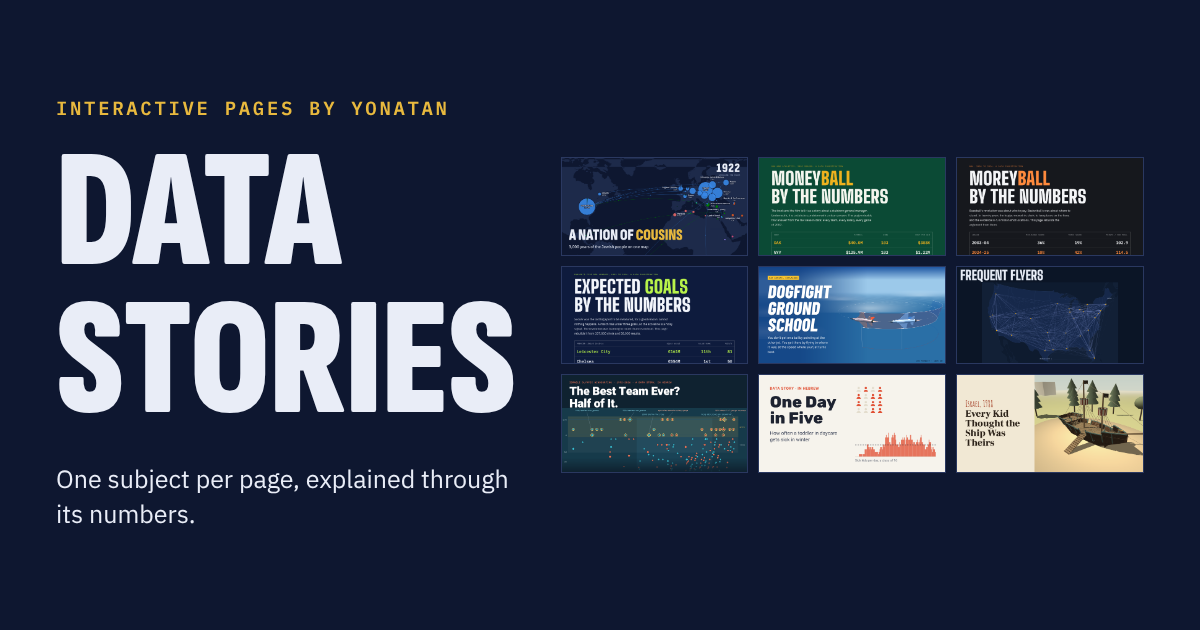
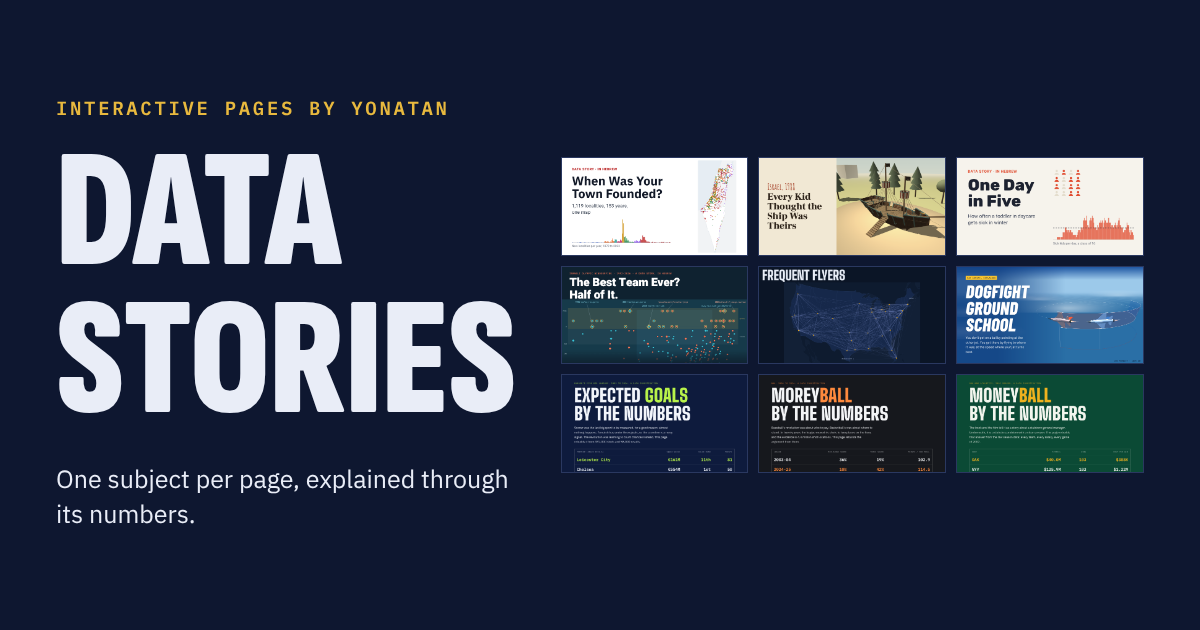
Home page newest first; settlements: play control above the map
Home rows are reversed so the newest story is on top, and the home share
image is re-rendered. On the settlements page the play button, timeline and
speed buttons sit right under the headline, and the top search box is gone.

Claude-Session: https://claude.ai/code/session_012WeNKA2ovQycEMAGqmeTJj

Changed region(s): [[0.4625, 0.2413, 0.9558, 0.754]]

diff --git a/index.html b/index.html
@@ -58,45 +58,45 @@ p{margin:0;max-width:60ch}
   </header>
   <p>Each page takes one subject and explains it through its numbers, with charts and maps you can play with.</p>
   <div class="row">
-    <a class="card" href="cousins/">
-      <img src="cousins/cousins-preview.png" alt="World map with circles showing Jewish population by region around 1922" width="1200" height="630">
-      <div><h2>A Nation of Cousins</h2><span>3,000 years of the Jewish people on one animated map, and why any two Ashkenazi Jews are about fourth cousins.</span><b>Open &rarr;</b></div>
-    </a>
-    <a class="card" href="moneyball/">
-      <img src="moneyball/preview.png" alt="Moneyball by the numbers title card" width="1200" height="630">
-      <div><h2>Moneyball by the Numbers</h2><span>The 2002 Oakland A's rebuilt from the raw season data: how a poor team bought wins cheaply.</span><b>Open &rarr;</b></div>
-    </a>
-    <a class="card" href="moreyball/">
-      <img src="moreyball/preview.png" alt="Moreyball by the numbers title card" width="1200" height="630">
-      <div><h2>Moreyball by the Numbers</h2><span>How the NBA moved its shots to two places on the floor, told through 4.4 million shot locations.</span><b>Open &rarr;</b></div>
-    </a>
-    <a class="card" href="expected-goals/">
-      <img src="expected-goals/preview.png" alt="Expected goals by the numbers title card" width="1200" height="630">
-      <div><h2>Expected Goals by the Numbers</h2><span>What xG is, whether it predicts anything, and why the league table lies.</span><b>Open &rarr;</b></div>
-    </a>
-    <a class="card" href="dogfight/">
-      <img src="dogfight/preview.png" alt="Dogfight Ground School title card: a blue jet follows a red jet around a turn over the sea" width="1200" height="630">
-      <div><h2>Dogfight Ground School</h2><span>A beginner's ground school for anyone who has tried a flight simulator: why the jet you are chasing keeps getting away, and six classic maneuvers in 3D.</span><b>Open &rarr;</b></div>
-    </a>
-    <a class="card" href="flyers/">
-      <img src="flyers/preview.png" alt="Frequent Flyers title card: a map of the United States covered with the flight routes of all 30 NBA teams" width="1200" height="630">
-      <div><h2>Frequent Flyers</h2><span>An NBA team flies 45,000 miles a season. Watch all 30 do it on one animated map, then see what the miles actually cost.</span><b>Open &rarr;</b></div>
-    </a>
-    <a class="card" href="windsurf/">
-      <img src="windsurf/card.png" alt="Title card: The Best Team Ever? Half of It. Every Israeli windsurfing result since 1992 on one chart" width="1200" height="630">
-      <div><h2>The Best Team Ever? Half of It.</h2><span>Israel's Olympic windsurfers, 1992-2026: best ever for the women, not for the men. 1,224 results, one chart. In Hebrew.</span><b>Open &rarr;</b></div>
-    </a>
-    <a class="card" href="winter/">
-      <img src="winter/card.png" alt="Title card: One Day in Five. A class of 16 toddlers, sick kids per day through one winter" width="1200" height="630">
-      <div><h2>One Day in Five</h2><span>How often a toddler in daycare gets sick in winter, when it peaks, and whether it pays off later. A simulated class of 16, run through one winter. In Hebrew.</span><b>Open &rarr;</b></div>
+    <a class="card" href="settlements/">
+      <img src="settlements/card.png" alt="Title card: When Was Your Town Founded? A map of Israel with a dot for every Jewish locality, colored by the period it was founded in" width="1200" height="630">
+      <div><h2>When Was Your Town Founded?</h2><span>Every Jewish locality in Israel by founding year, 1870 to today. 1,119 dots on a map you can play and search, eight periods, and how settlement moved south. In Hebrew.</span><b>Open &rarr;</b></div>
     </a>
     <a class="card" href="ships/">
       <img src="ships/card.png" alt="Title card: Every Kid Thought the Ship Was Theirs. A 3D model of a wooden pirate ship playground" width="1200" height="630">
       <div><h2>Every Kid Thought the Ship Was Theirs</h2><span>The wooden pirate ships that landed in Israeli playgrounds in 1988: a map of where they stood, who built them, how they ended, and a 3D ship to climb on. In Hebrew.</span><b>Open &rarr;</b></div>
     </a>
-    <a class="card" href="settlements/">
-      <img src="settlements/card.png" alt="Title card: When Was Your Town Founded? A map of Israel with a dot for every Jewish locality, colored by the period it was founded in" width="1200" height="630">
-      <div><h2>When Was Your Town Founded?</h2><span>Every Jewish locality in Israel by founding year, 1870 to today. 1,119 dots on a map you can play and search, eight periods, and how settlement moved south. In Hebrew.</span><b>Open &rarr;</b></div>
+    <a class="card" href="winter/">
+      <img src="winter/card.png" alt="Title card: One Day in Five. A class of 16 toddlers, sick kids per day through one winter" width="1200" height="630">
+      <div><h2>One Day in Five</h2><span>How often a toddler in daycare gets sick in winter, when it peaks, and whether it pays off later. A simulated class of 16, run through one winter. In Hebrew.</span><b>Open &rarr;</b></div>
+    </a>
+    <a class="card" href="windsurf/">
+      <img src="windsurf/card.png" alt="Title card: The Best Team Ever? Half of It. Every Israeli windsurfing result since 1992 on one chart" width="1200" height="630">
+      <div><h2>The Best Team Ever? Half of It.</h2><span>Israel's Olympic windsurfers, 1992-2026: best ever for the women, not for the men. 1,224 results, one chart. In Hebrew.</span><b>Open &rarr;</b></div>
+    </a>
+    <a class="card" href="flyers/">
+      <img src="flyers/preview.png" alt="Frequent Flyers title card: a map of the United States covered with the flight routes of all 30 NBA teams" width="1200" height="630">
+      <div><h2>Frequent Flyers</h2><span>An NBA team flies 45,000 miles a season. Watch all 30 do it on one animated map, then see what the miles actually cost.</span><b>Open &rarr;</b></div>
+    </a>
+    <a class="card" href="dogfight/">
+      <img src="dogfight/preview.png" alt="Dogfight Ground School title card: a blue jet follows a red jet around a turn over the sea" width="1200" height="630">
+      <div><h2>Dogfight Ground School</h2><span>A beginner's ground school for anyone who has tried a flight simulator: why the jet you are chasing keeps getting away, and six classic maneuvers in 3D.</span><b>Open &rarr;</b></div>
+    </a>
+    <a class="card" href="expected-goals/">
+      <img src="expected-goals/preview.png" alt="Expected goals by the numbers title card" width="1200" height="630">
+      <div><h2>Expected Goals by the Numbers</h2><span>What xG is, whether it predicts anything, and why the league table lies.</span><b>Open &rarr;</b></div>
+    </a>
+    <a class="card" href="moreyball/">
+      <img src="moreyball/preview.png" alt="Moreyball by the numbers title card" width="1200" height="630">
+      <div><h2>Moreyball by the Numbers</h2><span>How the NBA moved its shots to two places on the floor, told through 4.4 million shot locations.</span><b>Open &rarr;</b></div>
+    </a>
+    <a class="card" href="moneyball/">
+      <img src="moneyball/preview.png" alt="Moneyball by the numbers title card" width="1200" height="630">
+      <div><h2>Moneyball by the Numbers</h2><span>The 2002 Oakland A's rebuilt from the raw season data: how a poor team bought wins cheaply.</span><b>Open &rarr;</b></div>
+    </a>
+    <a class="card" href="cousins/">
+      <img src="cousins/cousins-preview.png" alt="World map with circles showing Jewish population by region around 1922" width="1200" height="630">
+      <div><h2>A Nation of Cousins</h2><span>3,000 years of the Jewish people on one animated map, and why any two Ashkenazi Jews are about fourth cousins.</span><b>Open &rarr;</b></div>
     </a>
   </div>
   <a class="li" href="https://www.linkedin.com/in/yonatan-back/" target="_blank" rel="noopener"><span>New stories go up on LinkedIn first.</span><b>Follow on LinkedIn &rarr;</b></a>

diff --git a/src/settlements/page.html b/src/settlements/page.html
@@ -68,7 +68,8 @@ button,input{font-family:inherit}button{cursor:pointer}
 .keyline{display:flex;flex-wrap:wrap;align-items:center;gap:6px;font-size:13px;color:var(--mut);margin-top:8px}
 .speed{display:flex;align-items:center;gap:8px;font-size:12px;font-weight:700;color:var(--mut);margin:20px 0 2px}
 .speed .chip{padding:3px 10px;font-weight:400}
-.ctrl{display:flex;align-items:center;gap:12px;margin:16px 0 4px}
+.ctrl{display:flex;align-items:center;gap:12px;margin:0 0 4px}
+.ctrlwrap{margin:0 0 22px}
 #play{flex:none;width:46px;height:46px;border-radius:50%;border:0;background:var(--ink);color:var(--paper);font-size:17px;line-height:1}
 .tl{flex:1;min-width:0;position:relative;direction:ltr;touch-action:none;cursor:pointer;padding-top:14px}
 .tl svg{display:block;width:100%;height:84px}
@@ -110,13 +111,16 @@ button,input{font-family:inherit}button{cursor:pointer}
 <a class="back" href="/">→ All stories</a>
 <div class="draft">טיוטה, לא לפרסום</div>
 <h1 id="h1">מתי קם היישוב שלכם?</h1>
-<p class="sub" style="margin-bottom:18px">1,119 יישובים, 153 שנים. איפה ומתי קמו היישובים היהודיים בארץ, במפה שאפשר לנגן ולחפש בה.</p>
-<div class="topfind">
- <div class="find"><input id="q0" list="names" placeholder="הקלידו שם של יישוב, למשל נהלל" autocomplete="off"></div>
- <div class="card" id="card0"></div>
-</div>
-<p class="vsub" style="margin-bottom:16px">לחצו על הפעל, או גררו את ציר הזמן. כל נקודה היא יישוב, בצבע של התקופה שבה נוסד.</p>
+<p class="sub" style="margin-bottom:10px">1,119 יישובים, 153 שנים. איפה ומתי קמו היישובים היהודיים בארץ, במפה שאפשר לנגן ולחפש בה.</p>
+<p class="vsub" style="margin-bottom:6px">לחצו על הפעל, או גררו את ציר הזמן. כל נקודה היא יישוב, בצבע של התקופה שבה נוסד.</p>
 <div id="v1">
+<div class="ctrlwrap">
+<div class="ctrl">
+ <button id="play" aria-label="הפעל">▶</button>
+ <div class="tl" id="tl"><svg id="tlsvg" preserveAspectRatio="none"></svg></div>
+</div>
+<div class="speed"><span>מהירות</span><span class="row" id="speeds"></span></div>
+</div>
 <div class="stage">
  <div class="mapbox main" id="mapbox"><svg id="map"></svg><div class="tip" id="tip"></div></div>
  <div class="panel">
@@ -134,13 +138,6 @@ button,input{font-family:inherit}button{cursor:pointer}
    <div class="row" id="types"></div>
   </div>
  </div>
-</div>
-<div class="ctrlwrap">
-<div class="ctrl">
- <button id="play" aria-label="הפעל">▶</button>
- <div class="tl" id="tl"><svg id="tlsvg" preserveAspectRatio="none"></svg></div>
-</div>
-<div class="speed"><span>מהירות</span><span class="row" id="speeds"></span></div>
 </div>
 <div class="lbl">תקופות. לחיצה מבודדת תקופה אחת</div>
 <div class="row legend"></div>
@@ -276,7 +273,6 @@ function find(src){const v=(src||$('q')).value.trim();const p=pts.find(p=>p.lab=
  $('card').style.display='block';$('card').innerHTML=`<b>${p.n}</b> נוסד ב-${p.yr}, בתקופת ${ERAS[p.e][2]}. ${same?`באותה שנה נוסדו עוד ${same} יישובים.`:'זה היישוב היחיד שנוסד באותה שנה.'} לפניו כבר היו על המפה ${before} יישובים.${p.end?` היישוב פונה ב-${p.end}.`:''}`;
  if(src){$('q').value=p.lab;$('card0').style.display='block';$('card0').innerHTML=$('card').innerHTML+'<br><button id="go0">הראו לי על המפה</button>';$('go0').onclick=()=>$('mapbox').scrollIntoView({behavior:'smooth',block:'center'})}}
 $('q').addEventListener('change',()=>find());$('q').addEventListener('input',()=>{if(pts.some(p=>p.lab==$('q').value.trim()))find()});
-$('q0').addEventListener('change',()=>find($('q0')));$('q0').addEventListener('input',()=>{if(pts.some(p=>p.lab==$('q0').value.trim()))find($('q0'))});
 // designs
 const thChips=THEMES.map(([k,l,pal],i)=>{const b=document.createElement('button');b.className='chip';b.innerHTML=pal.map(c=>`<i class="sw" style="background:${c};width:8px;height:8px;margin-inline-end:-4px"></i>`).join('')+'<span style="margin-inline-start:6px">'+l+'</span>';b.onclick=()=>setTheme(i);return b});
 function setTheme(i){document.body.dataset.t=THEMES[i][0];PAL=THEMES[i][2];thChips.forEach((b,j)=>b.classList.toggle('on',i==j));render()}
@@ -382,7 +378,7 @@ let rw=window.innerWidth>760;window.addEventListener('resize',()=>{const w=windo
  const sv=b.querySelector('svg');base(sv);const g1=el('g',{},sv),g2=el('g',{},sv);
  pts.forEach(p=>{if(p.yr<a)el('circle',{cx:p.x.toFixed(1),cy:p.y.toFixed(1),r:1.7,fill:'var(--fade)','fill-opacity':.75},g1);else if(p.yr<=b2)el('circle',{cx:p.x.toFixed(1),cy:p.y.toFixed(1),r:3,fill:PAL[ei],'fill-opacity':.92},g2)});
  b.onclick=()=>{stop();iso=ei;year=b2;sel=null;render();$('v1').scrollIntoView({behavior:'smooth'})};$('waves').appendChild(b)});
-if(window.innerWidth<=760){$('v1').appendChild($('side'));$('v1').insertBefore(document.querySelector('.ctrlwrap'),document.querySelector('.stage'))}
+if(window.innerWidth<=760)$('v1').appendChild($('side'));
 setTheme(0);drawLat();
 </script>
 </body>

diff --git a/settlements/index.html b/settlements/index.html
@@ -85,7 +85,8 @@ button,input{font-family:inherit}button{cursor:pointer}
 .keyline{display:flex;flex-wrap:wrap;align-items:center;gap:6px;font-size:13px;color:var(--mut);margin-top:8px}
 .speed{display:flex;align-items:center;gap:8px;font-size:12px;font-weight:700;color:var(--mut);margin:20px 0 2px}
 .speed .chip{padding:3px 10px;font-weight:400}
-.ctrl{display:flex;align-items:center;gap:12px;margin:16px 0 4px}
+.ctrl{display:flex;align-items:center;gap:12px;margin:0 0 4px}
+.ctrlwrap{margin:0 0 22px}
 #play{flex:none;width:46px;height:46px;border-radius:50%;border:0;background:var(--ink);color:var(--paper);font-size:17px;line-height:1}
 .tl{flex:1;min-width:0;position:relative;direction:ltr;touch-action:none;cursor:pointer;padding-top:14px}
 .tl svg{display:block;width:100%;height:84px}
@@ -126,13 +127,16 @@ button,input{font-family:inherit}button{cursor:pointer}
 <div class="wrap">
 <a class="back" href="../">&larr; All stories</a>
 <h1 id="h1">מתי קם היישוב שלכם?</h1>
-<p class="sub" style="margin-bottom:18px">1,119 יישובים, 153 שנים. איפה ומתי קמו היישובים היהודיים בארץ, במפה שאפשר לנגן ולחפש בה.</p>
-<div class="topfind">
- <div class="find"><input id="q0" list="names" placeholder="הקלידו שם של יישוב, למשל נהלל" autocomplete="off"></div>
- <div class="card" id="card0"></div>
-</div>
-<p class="vsub" style="margin-bottom:16px">לחצו על הפעל, או גררו את ציר הזמן. כל נקודה היא יישוב, בצבע של התקופה שבה נוסד.</p>
+<p class="sub" style="margin-bottom:10px">1,119 יישובים, 153 שנים. איפה ומתי קמו היישובים היהודיים בארץ, במפה שאפשר לנגן ולחפש בה.</p>
+<p class="vsub" style="margin-bottom:6px">לחצו על הפעל, או גררו את ציר הזמן. כל נקודה היא יישוב, בצבע של התקופה שבה נוסד.</p>
 <div id="v1">
+<div class="ctrlwrap">
+<div class="ctrl">
+ <button id="play" aria-label="הפעל">▶</button>
+ <div class="tl" id="tl"><svg id="tlsvg" preserveAspectRatio="none"></svg></div>
+</div>
+<div class="speed"><span>מהירות</span><span class="row" id="speeds"></span></div>
+</div>
 <div class="stage">
  <div class="mapbox main" id="mapbox"><svg id="map"></svg><div class="tip" id="tip"></div></div>
  <div class="panel">
@@ -150,13 +154,6 @@ button,input{font-family:inherit}button{cursor:pointer}
    <div class="row" id="types"></div>
   </div>
  </div>
-</div>
-<div class="ctrlwrap">
-<div class="ctrl">
- <button id="play" aria-label="הפעל">▶</button>
- <div class="tl" id="tl"><svg id="tlsvg" preserveAspectRatio="none"></svg></div>
-</div>
-<div class="speed"><span>מהירות</span><span class="row" id="speeds"></span></div>
 </div>
 <div class="lbl">תקופות. לחיצה מבודדת תקופה אחת</div>
 <div class="row legend"></div>
@@ -292,7 +289,6 @@ function find(src){const v=(src||$('q')).value.trim();const p=pts.find(p=>p.lab=
  $('card').style.display='block';$('card').innerHTML=`<b>${p.n}</b> נוסד ב-${p.yr}, בתקופת ${ERAS[p.e][2]}. ${same?`באותה שנה נוסדו עוד ${same} יישובים.`:'זה היישוב היחיד שנוסד באותה שנה.'} לפניו כבר היו על המפה ${before} יישובים.${p.end?` היישוב פונה ב-${p.end}.`:''}`;
  if(src){$('q').value=p.lab;$('card0').style.display='block';$('card0').innerHTML=$('card').innerHTML+'<br><button id="go0">הראו לי על המפה</button>';$('go0').onclick=()=>$('mapbox').scrollIntoView({behavior:'smooth',block:'center'})}}
 $('q').addEventListener('change',()=>find());$('q').addEventListener('input',()=>{if(pts.some(p=>p.lab==$('q').value.trim()))find()});
-$('q0').addEventListener('change',()=>find($('q0')));$('q0').addEventListener('input',()=>{if(pts.some(p=>p.lab==$('q0').value.trim()))find($('q0'))});
 // designs
 const thChips=THEMES.map(([k,l,pal],i)=>{const b=document.createElement('button');b.className='chip';b.innerHTML=pal.map(c=>`<i class="sw" style="background:${c};width:8px;height:8px;margin-inline-end:-4px"></i>`).join('')+'<span style="margin-inline-start:6px">'+l+'</span>';b.onclick=()=>setTheme(i);return b});
 function setTheme(i){document.body.dataset.t=THEMES[i][0];PAL=THEMES[i][2];thChips.forEach((b,j)=>b.classList.toggle('on',i==j));render()}
@@ -398,7 +394,7 @@ let rw=window.innerWidth>760;window.addEventListener('resize',()=>{const w=windo
  const sv=b.querySelector('svg');base(sv);const g1=el('g',{},sv),g2=el('g',{},sv);
  pts.forEach(p=>{if(p.yr<a)el('circle',{cx:p.x.toFixed(1),cy:p.y.toFixed(1),r:1.7,fill:'var(--fade)','fill-opacity':.75},g1);else if(p.yr<=b2)el('circle',{cx:p.x.toFixed(1),cy:p.y.toFixed(1),r:3,fill:PAL[ei],'fill-opacity':.92},g2)});
  b.onclick=()=>{stop();iso=ei;year=b2;sel=null;render();$('v1').scrollIntoView({behavior:'smooth'})};$('waves').appendChild(b)});
-if(window.innerWidth<=760){$('v1').appendChild($('side'));$('v1').insertBefore(document.querySelector('.ctrlwrap'),document.querySelector('.stage'))}
+if(window.innerWidth<=760)$('v1').appendChild($('side'));
 setTheme(0);drawLat();
 </script>
 </body>

diff --git a/CLAUDE.md b/CLAUDE.md
@@ -23,10 +23,10 @@ Never hand-edit `cousins/index.html`, `dogfight/index.html`, `flyers/index.html`
 
 - Every article has a "← All stories" link back to `/`. Articles do not link to each other.
 - Every article opens with an abstract and a hook: a question or surprising fact, two or three short paragraphs of background for a reader who knows nothing about the subject, and what the page covers. The sports pages use the `.brief` block for this. New pages need one too.
-- Home page: one full-width row per article, all equal, no sections. Stacks image over text on phones.
+- Home page: one full-width row per article, all equal, no sections. Newest story first: add a new row at the top of the list. Stacks image over text on phones.
 - Every page carries Google Analytics (`G-ZHETPL7EV5`). The build scripts add it. New pages need it too.
 - Every page needs Open Graph tags and a 1200x630 preview image (`preview.png` or `cousins-preview.png`) for link previews.
-- The home page has its own share image, `/preview.png` (a 3x3 grid of the home-row images). Re-render it whenever a story row is added: `NODE_PATH=$(npm root -g) node src/home/og.js`.
+- The home page has its own share image, `/preview.png` (a 3x3 grid of the first nine home-row images, so the newest nine). Re-render it whenever a story row is added: `NODE_PATH=$(npm root -g) node src/home/og.js`.
 - Light mode only. No dark-mode rules (`prefers-color-scheme`) in any article, so every reader sees the same colors. The dark map stage and dark home page are fixed designs, not a dark mode.
 - Phones matter. Check every change at about 390px wide for sideways overflow before pushing.
 - Copy style: short plain sentences, no em dashes.
@@ -81,7 +81,7 @@ Never hand-edit `cousins/index.html`, `dogfight/index.html`, `flyers/index.html`
 
 ## Settlements notes
 
-- Hebrew page, `dir="rtl"`, light clean design: white page, cool gray map, headline font IBM Plex Sans Hebrew 700, body Heebo. The playable map is the first thing on the page, right after the headline and the search box; the opening text comes after it. Yonatan asked for that.
+- Hebrew page, `dir="rtl"`, light clean design: white page, cool gray map, headline font IBM Plex Sans Hebrew 700, body Heebo. The play button and timeline come right under the headline so they are on the first screen, then the map; the opening text comes after it. No search box at the top: the search lives in the map's side panel. Yonatan asked for all of that.
 - Data: CBS localities file 2023 (`data/bycode2023.xlsx`) for everything that exists today, the 2004 file (`data/bycode2004.xls`) for the 20 localities evacuated in 2005 and 7 merged since, and `data/gone_research.csv` (hand-made, a source per row) for four Sinai localities. `prep.py` writes `data.json`. Founding years are the CBS years, odd ones included (Lod 1948, Kfar Etzion 1967). Type of locality is today's type.
 - Never draw a locality without a sourced founding year and position. The other Sinai localities and the 1948 losses are named in the page notes, not drawn. If rows are added, recheck every number in the prose and `DESC` in `build.py`, and re-render the share images.
 - Eight periods, one color each (`THEMES` in `page.html`), on the big map, the two wave maps and the eight period maps. The north-south scatter has its own earth ramp (`EARTH`). All palettes were checked with the dataviz validator.
@@ -92,7 +92,7 @@ Never hand-edit `cousins/index.html`, `dogfight/index.html`, `flyers/index.html`
 
 1. Make a folder at the root (`/name/`) with `index.html` and a `preview.png`.
 2. Add the GA tag, OG tags, and the "← All stories" link.
-3. Add a row to `index.html` and a line to `README.md`.
+3. Add a row at the top of the list in `index.html` (newest first) and a line to `README.md`. Re-render the home share image.
 
 ## Launch material
 

diff --git a/src/settlements/README.md b/src/settlements/README.md
@@ -57,3 +57,4 @@ Not a page on the site yet. No row on the home page.
 - Page order (27 Nov): headline, one line, search box, then the playable map first. The opening text comes after the map. Yonatan asked for the map to be the first thing, as on the ships page.
 - Play speed: three buttons under the timeline (slow 450 ms a year, normal 170, fast 60). Yonatan asked for it.
 - Timeline marker: a thin line with a round knob on the baseline. Yonatan disliked the outlined box that used to mark the current year.
+- 27 Nov, after going live: the play button, timeline and speed buttons moved above the map so they are on the first screen on desktop too. The search box under the headline was removed (Yonatan: search is less important); the search in the map's side panel stays.
